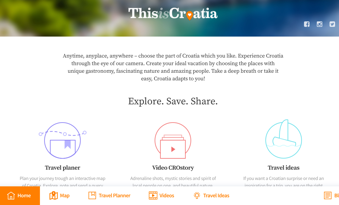
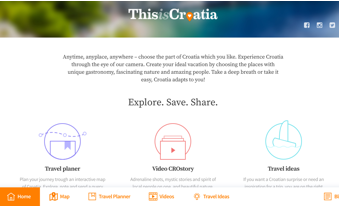
Update

diff --git a/index.html b/index.html
@@ -171,7 +171,7 @@ title: Andrej Dragisic
 
         <div class="six columns project-item">
             <div class="project-img-wrap" data-width="210">
-                <img alt="project cover image" src="/images/portfolio/palytte.png" />
+                <img alt="project cover image" src="/images/portfolio/palytte@2x.png" />
                 <div class="project-hover text-center"></div>
 
             </div>
@@ -185,7 +185,7 @@ title: Andrej Dragisic
 
          <div class="six columns">
             <div class="project-img-wrap" data-width="210">
-                <img  alt="project cover image" src="images/portfolio/thisiscroatia.png" />
+                <img  alt="project cover image" src="images/portfolio/thisiscroatia@2x.png" />
                 <div class="project-hover text-center"></div>
             </div>
             <div class="project-details">
@@ -215,7 +215,7 @@ title: Andrej Dragisic
 
         <div class="six columns project-item">
             <div class="project-img-wrap" data-width="210">
-                <img alt="project cover image" src="/images/portfolio/quotethread.png" />
+                <img alt="project cover image" src="/images/portfolio/quotethread@2x.png" />
                 <div class="project-hover text-center"></div>
 
             </div>
@@ -231,7 +231,7 @@ Took over the brownfield project and refactored the app by switching the archite
 
         <div class="six columns">
             <div class="project-img-wrap" data-width="210">
-                <img  alt="project cover image" src="images/portfolio/devex.png" />
+                <img  alt="project cover image" src="images/portfolio/devex@2x.png" />
                 <div class="project-hover text-center"></div>
             </div>
             <div class="project-details">
